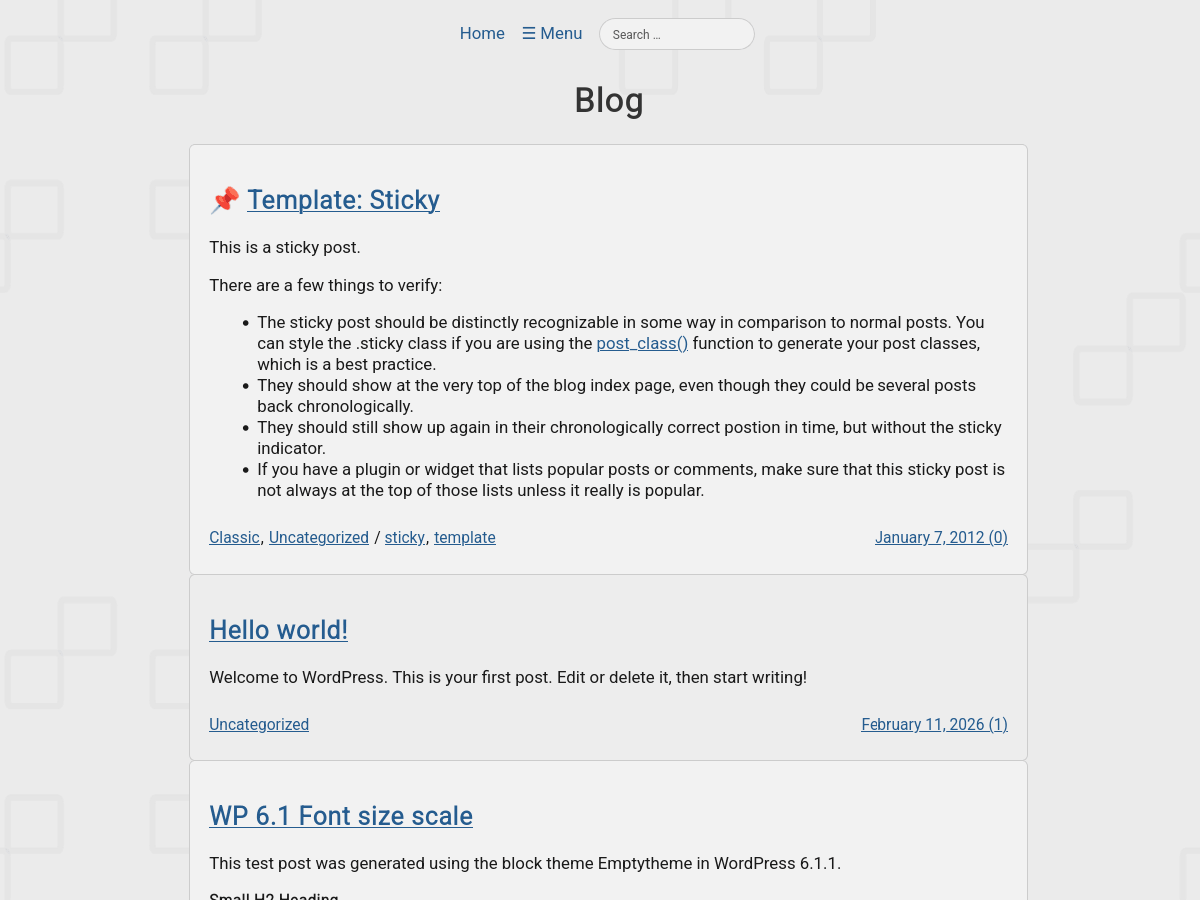
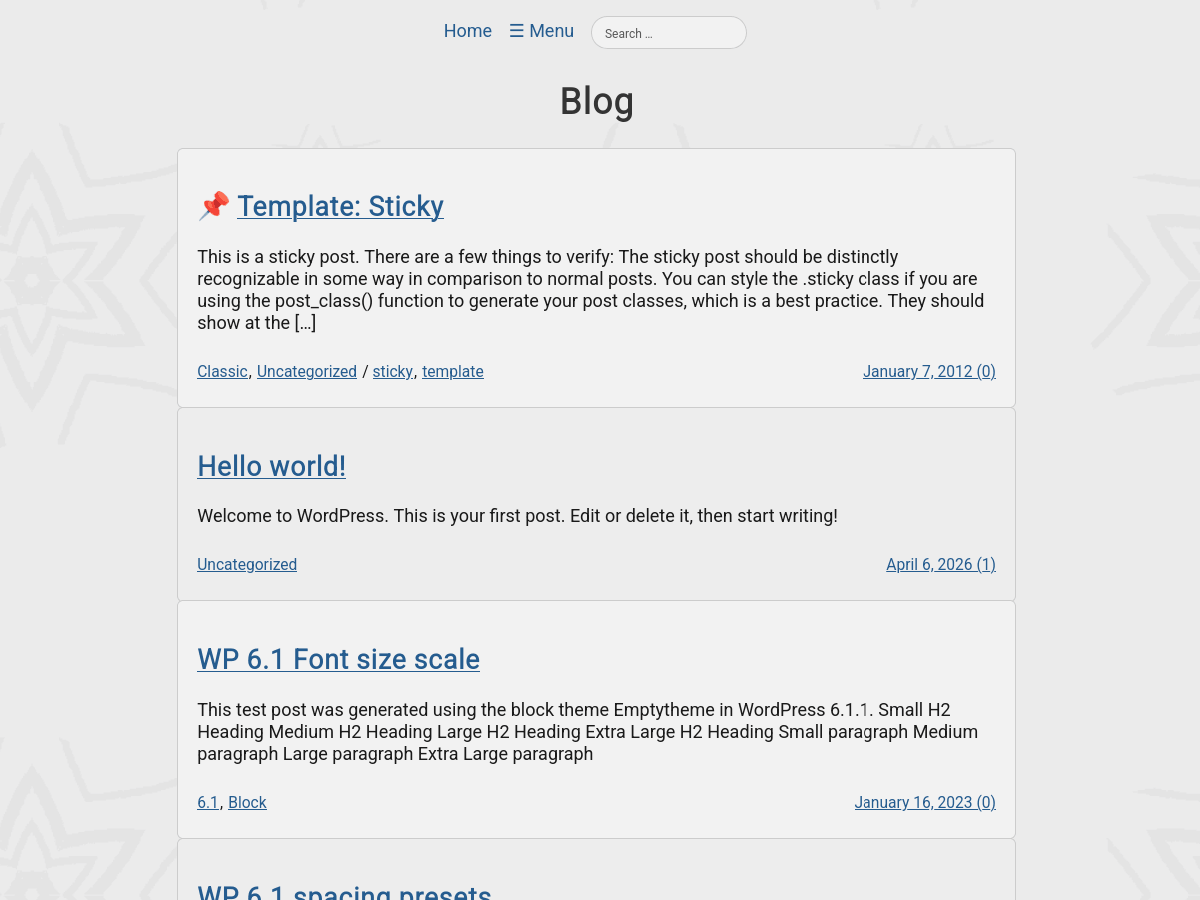
update

diff --git a/games/typing-speed-14/style.css b/games/typing-speed-14/style.css
@@ -6,7 +6,7 @@
 
 .result, textarea, #statTopWpm {
 margin: 0 auto;
-font-size: 120%;
+font-size: 150%;
 font-size: var(--typingFont);
 padding: 0 9px;
 }